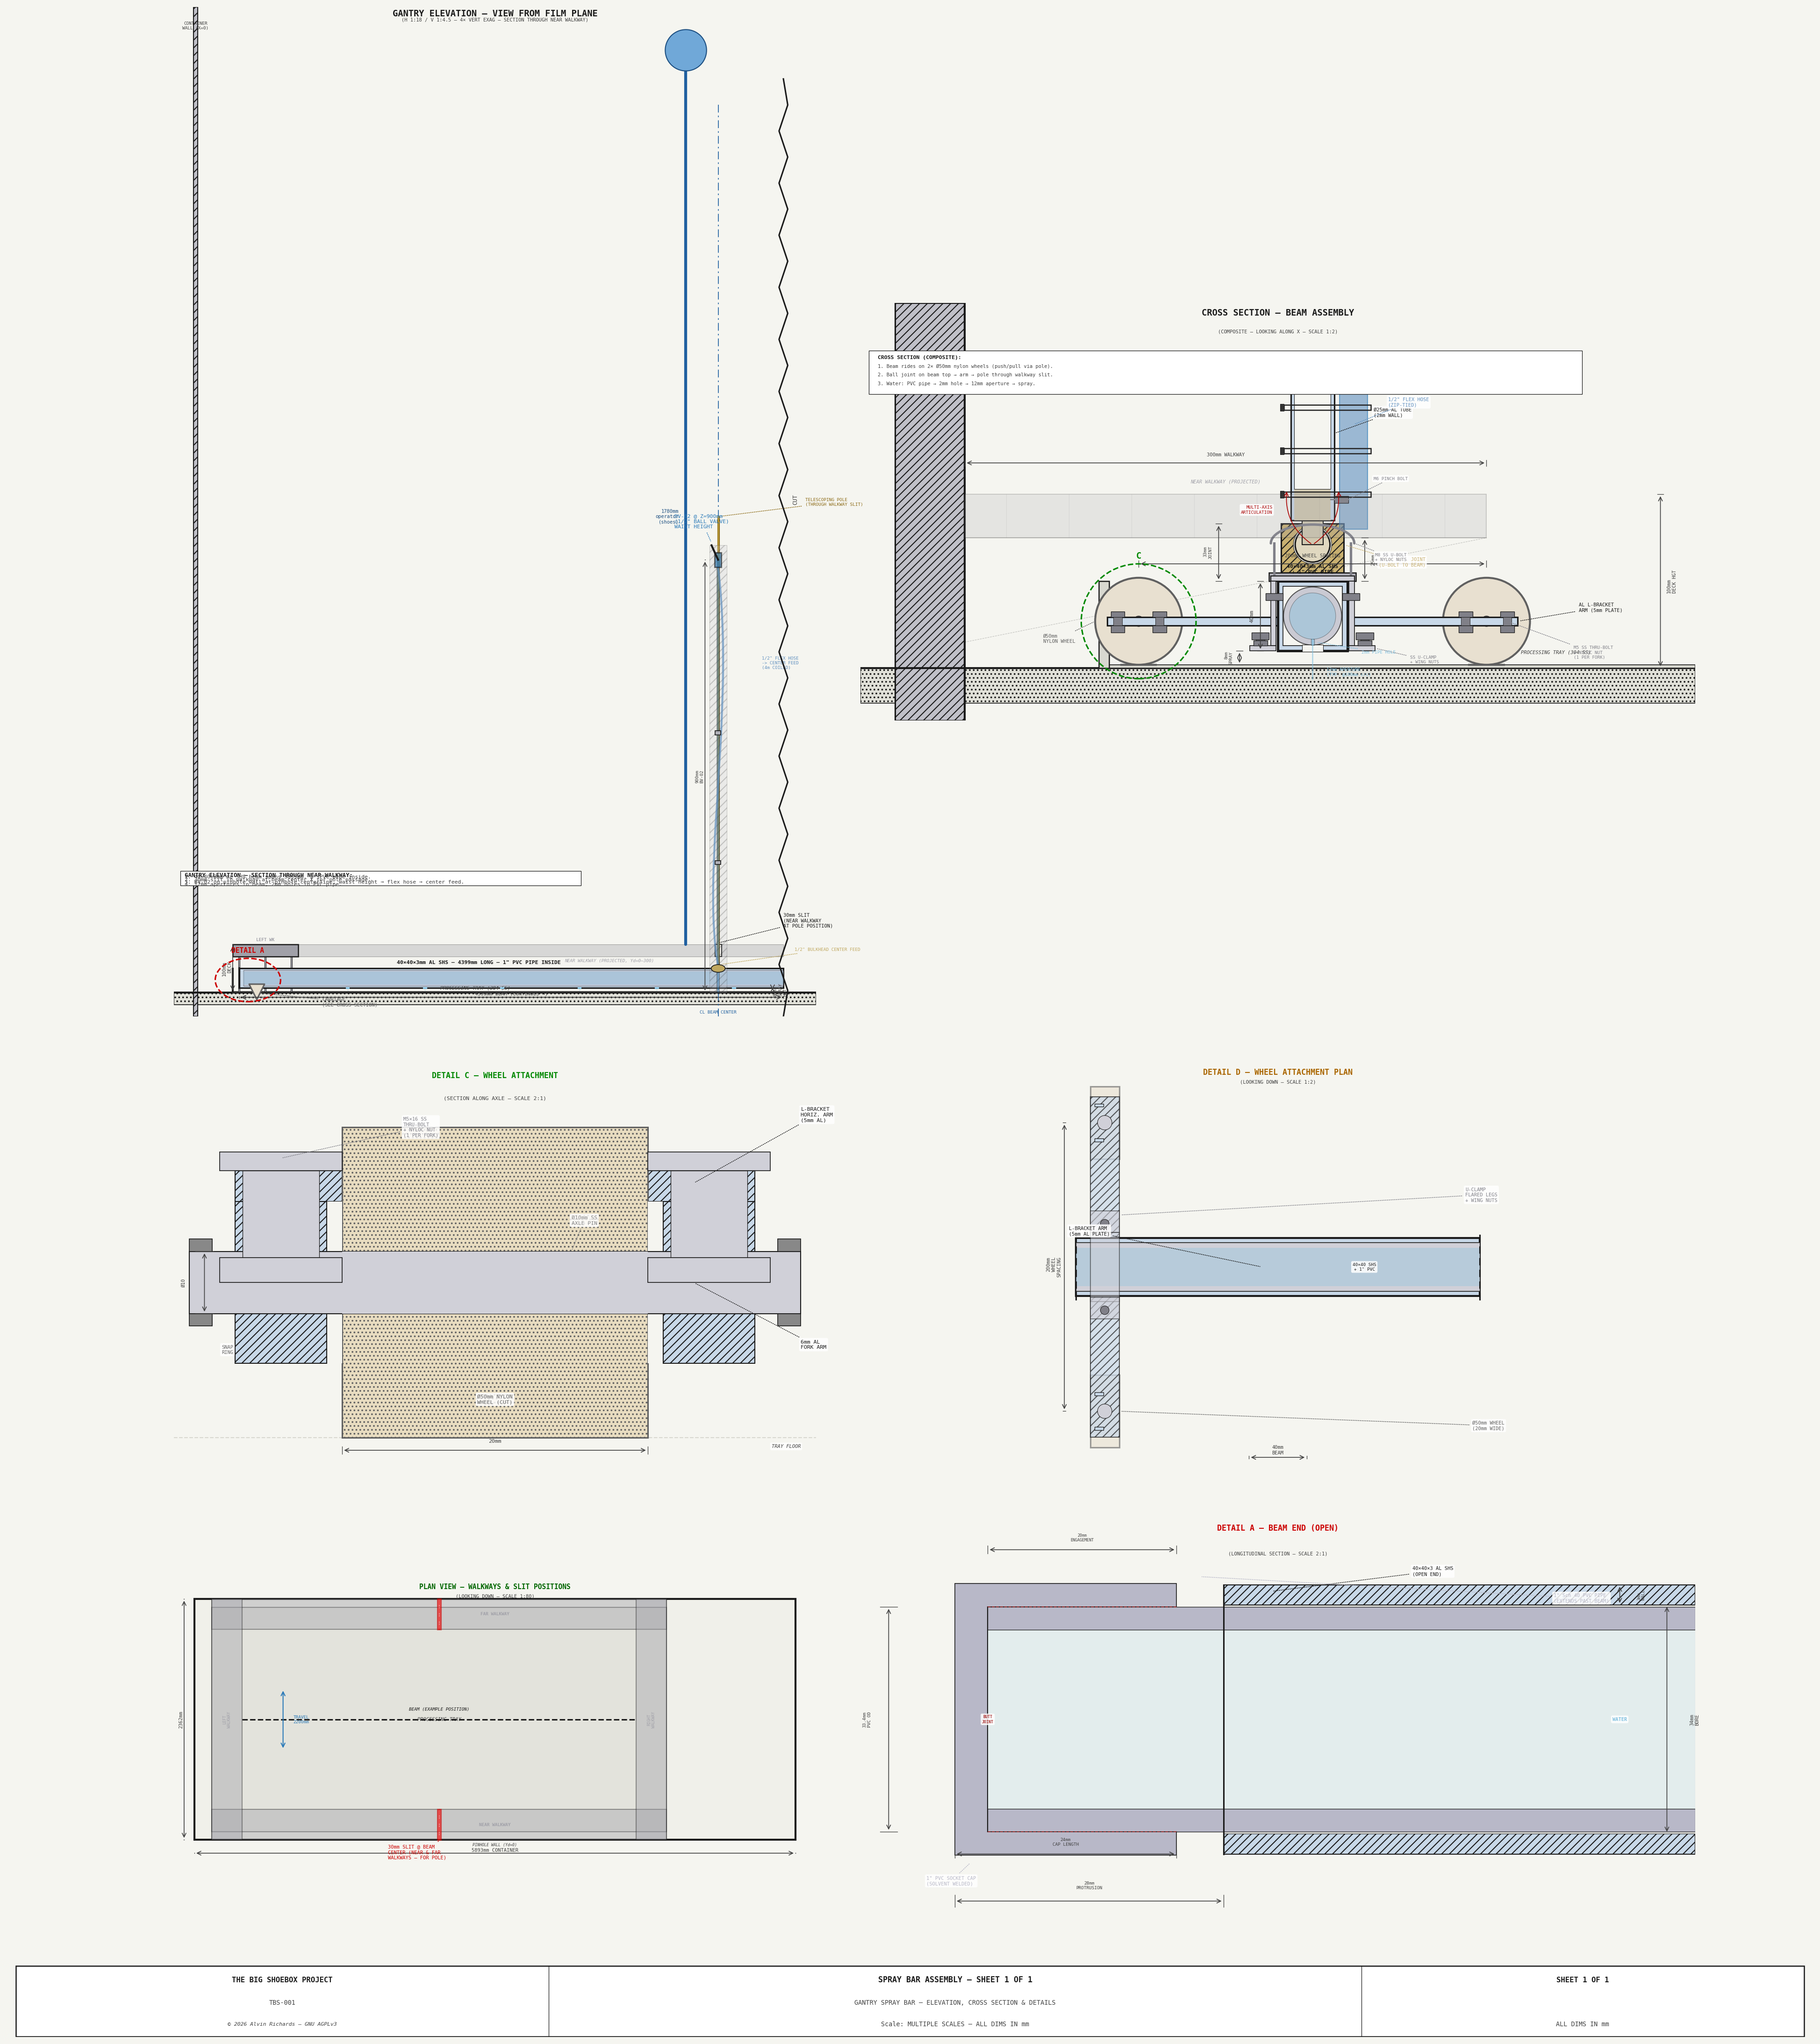
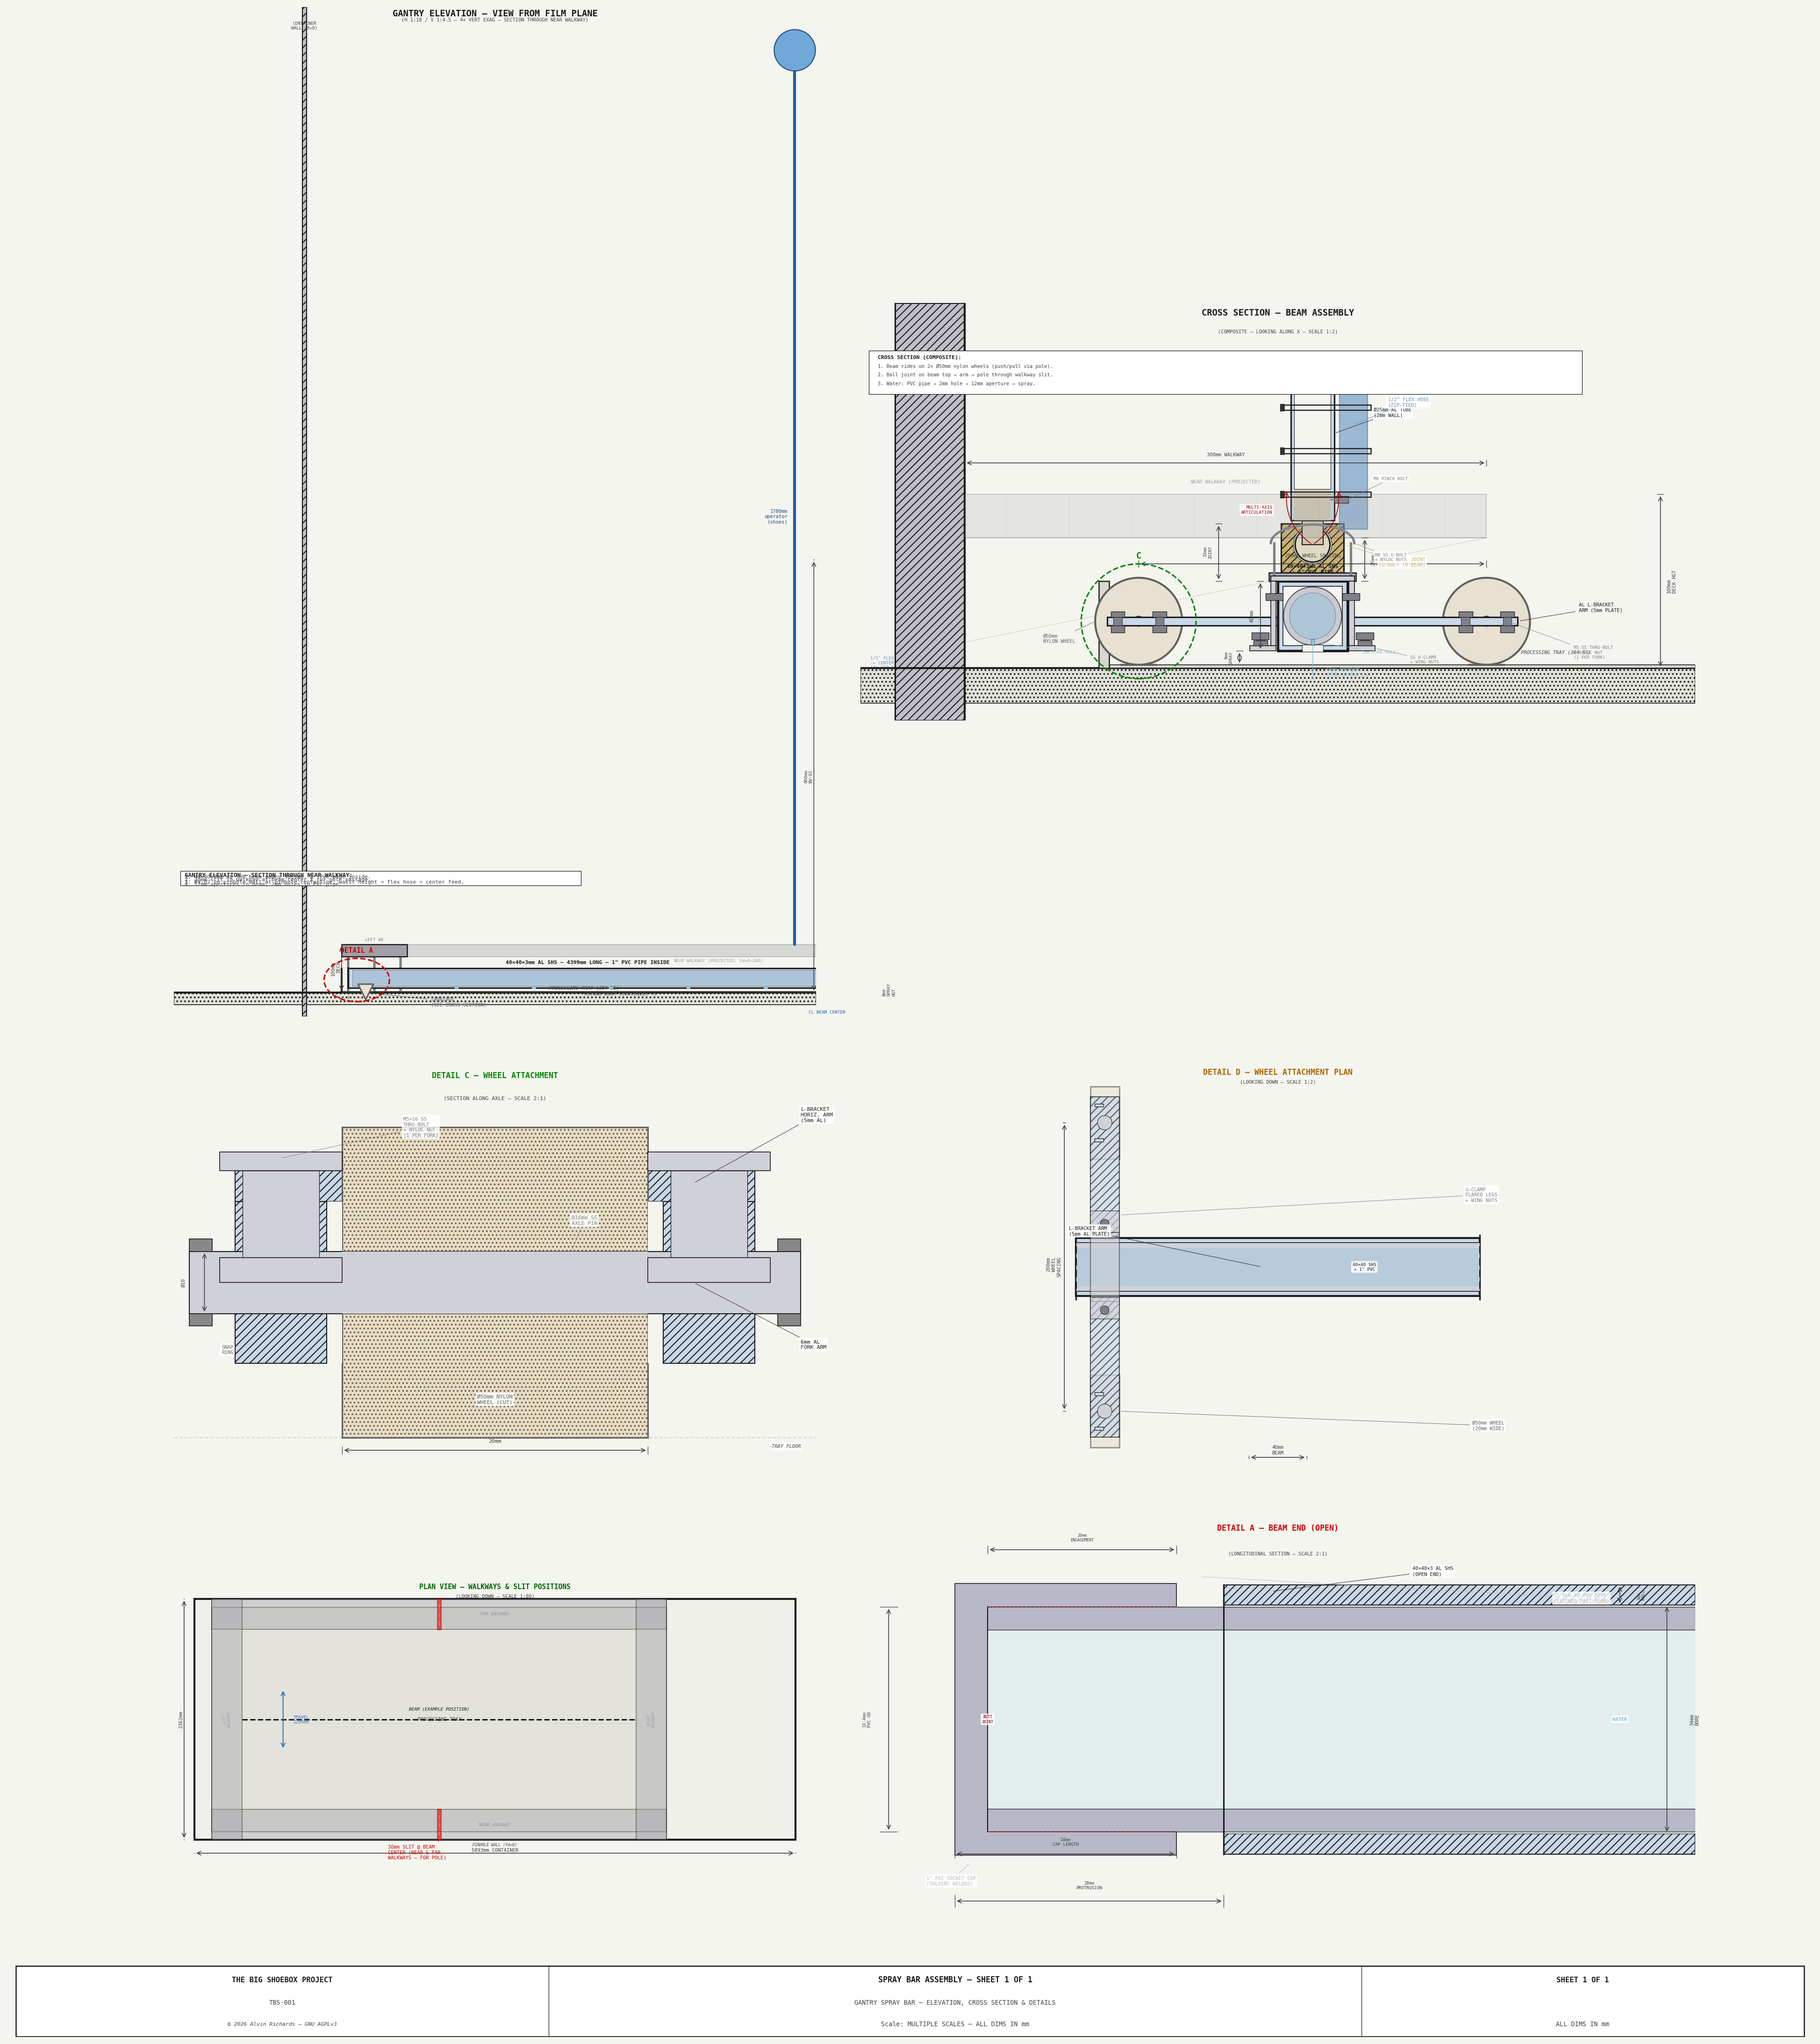
Shift gantry elevation viewport 500mm left for better centering

diff --git a/generate_spray_bar_diagram.py b/generate_spray_bar_diagram.py
@@ -132,8 +132,8 @@ def sz(z_mm):
 pole_x = (PROC_OPEN_X_L + PROC_OPEN_X_R) / 2
 
 CUT_X = int(pole_x) + 300
-X_LO = -100
-X_HI = CUT_X + 150
+X_LO = -600
+X_HI = CUT_X - 350
 Z_LO = -50
 Z_HI = 2050
 
